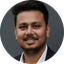
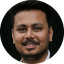
Fix clipped heading descenders site-wide; new profile photo; services hero on mobile
- Word-reveal wrappers now pad their clip box so g/j/p/y aren't cut off
  under tight display line-heights (affects every animated heading).
- New profile photo for navbar avatar, favicon and Apple icon.
- Services hero: spotlight layer is desktop-only; on touch it sat frozen
  behind the copy and made it unreadable.

diff --git a/src/components/sections/PageHeroes.tsx b/src/components/sections/PageHeroes.tsx
@@ -150,12 +150,14 @@ export function SpotlightHero({
       className="relative flex min-h-[100svh] items-center justify-center overflow-hidden bg-[#07060c] pb-16 pt-32 [--sx:50%] [--sy:45%]"
     >
       {/* Faint work grid, always hinted */}
-      <div className="absolute inset-[-4%] grid grid-cols-3 gap-4 p-4 opacity-[0.13] md:grid-cols-4" aria-hidden>
+      <div className="absolute inset-[-4%] grid grid-cols-3 gap-4 p-4 opacity-[0.09] md:grid-cols-4 md:opacity-[0.13]" aria-hidden>
         {grid}
       </div>
-      {/* Same grid, fully lit inside the cursor's spotlight */}
+      {/* Same grid, fully lit inside the cursor's spotlight. Desktop only:
+          touch devices have no cursor, so the spotlight would sit frozen
+          behind the copy and make it unreadable. */}
       <div
-        className="absolute inset-[-4%] grid grid-cols-3 gap-4 p-4 md:grid-cols-4"
+        className="absolute inset-[-4%] hidden grid-cols-4 gap-4 p-4 md:grid"
         style={{
           WebkitMaskImage: "radial-gradient(420px circle at var(--sx) var(--sy), black 0%, black 35%, transparent 75%)",
           maskImage: "radial-gradient(420px circle at var(--sx) var(--sy), black 0%, black 35%, transparent 75%)",
@@ -176,7 +178,7 @@ export function SpotlightHero({
         >
           {title}
         </motion.h1>
-        <p className="mx-auto mt-6 max-w-2xl text-lg leading-relaxed text-white/70">{description}</p>
+        <p className="mx-auto mt-6 max-w-2xl text-base leading-relaxed text-white/75 sm:text-lg">{description}</p>
         <div className="pointer-events-auto mt-10 flex flex-wrap justify-center gap-3">
           <Button href={primary.href} variant="secondary" size="lg" arrow>
             {primary.label}

diff --git a/src/components/ui/Reveal.tsx b/src/components/ui/Reveal.tsx
@@ -140,7 +140,13 @@ export function RevealText({
       aria-label={text}
     >
       {words.map((word, i) => (
-        <span key={`${word}-${i}`} className="inline-block overflow-hidden align-bottom">
+        // Padding extends the clip box past the tight display line-height so
+        // descenders (g, j, p, y) aren't cut; the negative margin cancels the
+        // padding so line spacing is unchanged.
+        <span
+          key={`${word}-${i}`}
+          className="-mb-[0.22em] -mt-[0.08em] inline-block overflow-hidden pb-[0.22em] pt-[0.08em] align-bottom"
+        >
           <motion.span
             className={cn("inline-block", wordClassName)}
             variants={{

diff --git a/src/components/hero-lab/HeroVariants.tsx b/src/components/hero-lab/HeroVariants.tsx
@@ -619,7 +619,7 @@ export function HeroRotating() {
         <h1 className="mt-8 font-display text-[clamp(3rem,9vw,8rem)] leading-[0.92] tracking-[-0.045em]">
           I build
           <br />
-          <span className="relative inline-block h-[1.05em] overflow-hidden align-bottom">
+          <span className="relative -mb-[0.22em] inline-block h-[1.27em] overflow-hidden pb-[0.22em] align-bottom">
             <motion.span
               key={rotatingWords[i]}
               initial={{ y: "100%" }}
